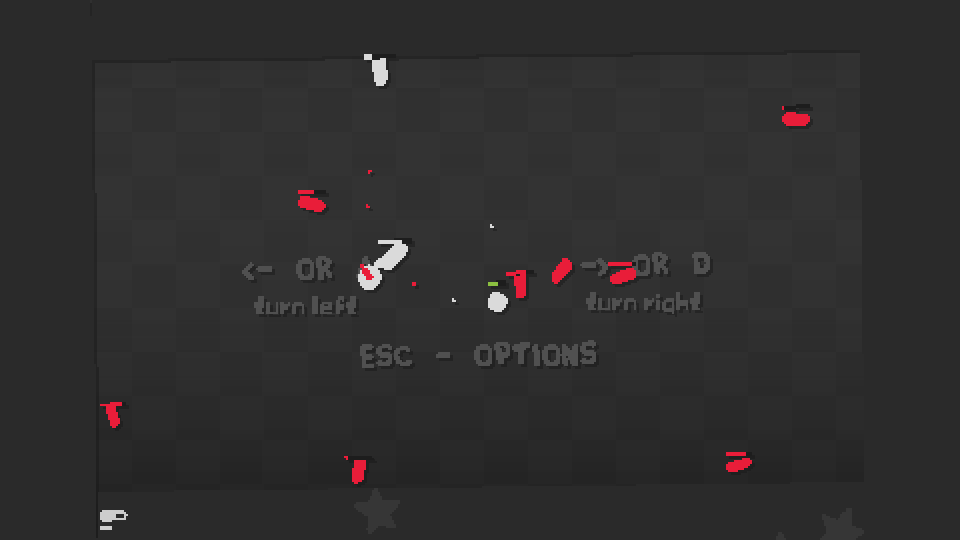
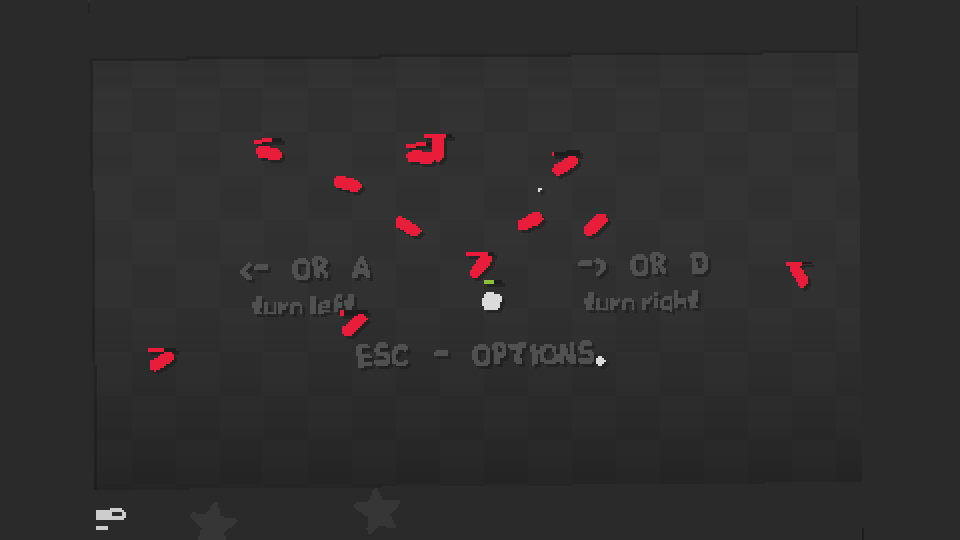
Physics: an angular impulse or a torque crosses in px^2, as in LÖVE 11 (#26)
LÖVE divides them by meter^2; the port gave them to Box2D unscaled, so
a pushed seeker (an angular impulse of 4pi to 12pi) spun at the limit
of Box2D 3, a quarter turn per step (47 rad/s), against 16 rad/s in
LÖVE for 8pi, and lost its bounce on a wall by its corners. Test
eng/spin: 15.82 rad/s (LÖVE 15.85). Against a wall at many angles and
spins, a push lasts 77.9 ticks on average (LÖVE 79.1). Nine arena tests
change; arena2 runs 1500 frames so that its unit still dies, and the
second shot of bosses moves to tick 500, before the snake dies.

Claude-Session: https://claude.ai/code/session_011eECohRKf757Ydp2i9w7Ng

diff --git a/eng/phys.h b/eng/phys.h
@@ -196,8 +196,10 @@ static void pw_set (int b, int what, double x, double y) {
         case 7: b2Body_SetBullet(id, x != 0); break;
         case 8: b2Body_ApplyForceToCenter(id, (b2Vec2){ (float)(x/PW_M), (float)(y/PW_M) }, true); break;
         case 9: b2Body_ApplyLinearImpulseToCenter(id, (b2Vec2){ (float)(x/PW_M), (float)(y/PW_M) }, true); break;
-        case 10: b2Body_ApplyAngularImpulse(id, (float)x, true); break;
-        case 11: b2Body_ApplyTorque(id, (float)x, true); break;
+        // as LÖVE 11, an angular impulse or a torque crosses in px^2
+        // (kg*px^2/s, kg*px^2/s^2), and Box2D sees it divided by m^2
+        case 10: b2Body_ApplyAngularImpulse(id, (float)(x/(PW_M*PW_M)), true); break;
+        case 11: b2Body_ApplyTorque(id, (float)(x/(PW_M*PW_M)), true); break;
     }
 }
 
